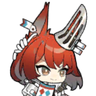
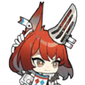
修复长夜需尽卡面渲染失败、踏步斩致卡图鉴崩溃、头像缩至原版85×85
- 长夜需尽描述中能量变量误用 PowerVar 层变量 {Amount:energyIcons()}（EnergyIconsFormatter
  不接受 PowerVar，抛 LocException 使整条描述解析失败），改用已有 EnergyVar {Energy:...}。
- 踏步斩的 Damage 变量是 ComputedDynamicVar，DynamicVars.Damage.UpgradeValueBy(1) 触发
  DynamicVarSet.Damage 强转 DamageVar 失败（InvalidCastException 在 NCardLibraryGrid.InitGrid
  时抛出 → 卡牌图鉴白屏）。改名 StrideDamage 并用 IsUpgraded 分支计算升级基础伤害 4→5，
  同步更新本地化变量名。
- 角色头像/描边 96×96 → 85×85（原版 top_panel 头像实测 85×85），修复跑团头像仍偏大。

diff --git a/flametailCode/Cards/flametailStrideSlash.cs b/flametailCode/Cards/flametailStrideSlash.cs
@@ -36,10 +36,13 @@ public sealed class flametailStrideSlash : ModCardTemplate
 
     protected override IEnumerable<DynamicVar> CanonicalVars =>
     [
-        ModCardVars.ComputedDamage(
-            "Damage", BaseDamage,
+        // 注意：不能用名为 "Damage" 的 ComputedDynamicVar——引擎 DynamicVarSet.Damage
+        // 会把该名字的变量强转为 DamageVar（卡图鉴构建升级版时抛 InvalidCastException，
+        // InitGrid 任务崩掉 → 卡牌图鉴白屏）。
+        ModCardVars.Computed(
+            "StrideDamage", BaseDamage,
             (card, target) => ResolveDamage(card),
-            ValueProp.Move),
+            null),
         new IntVar("BlockGainBonus", 3)
     ];
 
@@ -53,23 +56,26 @@ public sealed class flametailStrideSlash : ModCardTemplate
     /// </summary>
     private static decimal ResolveDamage(CardModel? card)
     {
+        // 未升级按 4 算、升级按 5 算（不能走 UpgradeValueBy：该变量是 ComputedDynamicVar，
+        // 引擎 DynamicVarSet.Damage 强转 DamageVar 会在卡图鉴崩溃）。
+        decimal baseDamage = card is { IsUpgraded: true } ? BaseDamage + 1 : BaseDamage;
         if (card?.CombatState == null)
         {
-            return BaseDamage;
+            return baseDamage;
         }
 
         decimal bonus = card.DynamicVars?.GetValueOrDefault("BlockGainBonus", 3m) ?? 3m;
         int blockCount = card.Owner?.Creature is { } creature
             ? CounterSystem.GetBlocksGainedThisTurn(creature)
             : 0;
-        return BaseDamage + bonus * blockCount;
+        return baseDamage + bonus * blockCount;
     }
 
     protected override async Task OnPlay(PlayerChoiceContext choiceContext, CardPlay cardPlay)
     {
         ArgumentNullException.ThrowIfNull(cardPlay.Target);
 
-        decimal totalDamage = DynamicVars.ComputeDynamicValue("Damage", BaseDamage, cardPlay.Target);
+        decimal totalDamage = DynamicVars.ComputeDynamicValue("StrideDamage", BaseDamage, cardPlay.Target);
 
         await DamageCmd.Attack(totalDamage)
             .FromCard(this, cardPlay)
@@ -80,6 +86,5 @@ public sealed class flametailStrideSlash : ModCardTemplate
     protected override void OnUpgrade()
     {
         DynamicVars["BlockGainBonus"].UpgradeValueBy(1);   // 3→4
-        DynamicVars.Damage.UpgradeValueBy(1);              // 基础伤害 4→5
     }
 }
